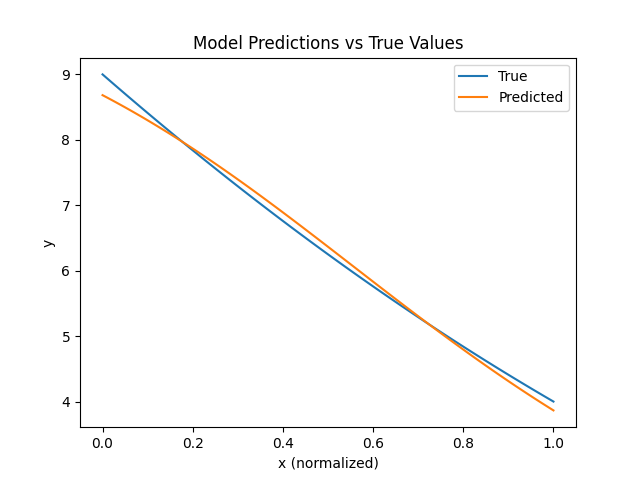
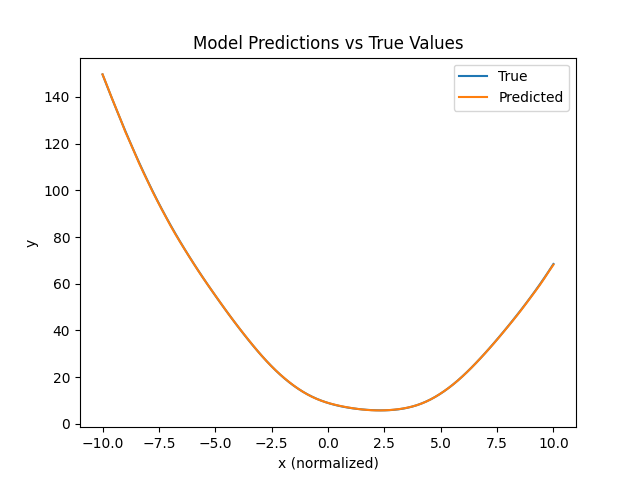
First Documented Neural Network Toy Example

diff --git a/main_neumann.py b/main_neumann.py
@@ -1,0 +1,84 @@
+import torch
+import torch.nn as nn
+import torch.optim as optim
+
+
+# Neumann
+
+
+def residual_heat_equation(x,t):
+    
+    return
+
+def boundary_condition(x,t):
+    
+    return
+
+def initial_condition(x):
+    return (3*(x**2)-8*x-16)*(e**(-0.5*x))
+
+def function_to_optimize(x): # It is important that this function recieve a tensor.
+    return (x - 3)**2
+
+
+class NeuralNetwork(nn.Module):
+    def __init__(self):
+        super(NeuralNetwork, self).__init__()
+        self.layers = nn.Sequential(
+            nn.Linear(1,20),
+            nn.Tanh(),
+            nn.Linear(20,1)
+        )
+
+    def forward(self, x):
+        return self.layers(x)
+
+model = NeuralNetwork()
+criterion = nn.MSELoss()
+optimizer = optim.SGD(model.parameters(), lr = 0.01)
+epochs = 100
+batch_size = 10
+x = torch.linspace(-10,10,100).unsqueeze(1)
+x = (x - x.min()) / (x.max() - x.min())  # Normalize to [0,1]
+y = function_to_optimize(x)
+
+for epoch in range(epochs):
+    permutation = torch.randperm(x.size(0))
+    epoch_loss = 0
+    for i in range(0, x.size(0), batch_size):
+        indices = permutation[i:i+batch_size]
+        x_batch, y_batch = x[indices], y[indices]
+        outputs = model(x_batch)
+        loss = criterion(outputs, y_batch)
+        optimizer.zero_grad()
+        loss.backward()
+        optimizer.step()
+        epoch_loss += loss.item() * x_batch.size(0)
+    if (epoch+1) % 20 == 0:
+        print(f"Epoch {epoch+1}, Avg Loss: {epoch_loss/x.size(0):.4f}")
+
+
+with torch.no_grad():
+    predictions = model(x)
+    print("Final MSE:", criterion(predictions, y).item())
+
+
+import matplotlib.pyplot as plt
+
+with torch.no_grad():
+    predictions = model(x)
+    print("Final MSE:", criterion(predictions, y).item())
+    plt.plot(x.numpy(), y.numpy(), label="True")
+    plt.plot(x.numpy(), predictions.numpy(), label="Predicted")
+    plt.legend()
+    plt.xlabel("x (normalized)")
+    plt.ylabel("y")
+    plt.title("Model Predictions vs True Values")
+    plt.savefig( "model_predictions.png")
+
+"""
+with torch.no_grad():
+    preds = torch.argmax(model(x), dim=1)
+    acc = (preds == y).float().mean()
+    print("Final accuracy")
+"""

diff --git a/main_dirichlet.py b/main_dirichlet.py
@@ -1,31 +1,49 @@
 import torch
 import torch.nn as nn
 import torch.optim as optim
+import numpy as np
+import matplotlib.pyplot as plt
+
+# Dirichlet Conditions.
 
 
-def function_to_optimize(x): #It is important that this function recieve a tensor.
-    return (x - 3)**2
+"""
+def residual_heat_equation(x,t):
+    return
+
+def boundary_condition(x,t):
+    return
+
+def initial_condition(x):
+    return np.arctan(x)*np.sin(x)
+"""
+
+
+def function_to_optimize(x):
+    return (x+3)**2-10*x + np.sin(x)
 
 
 class NeuralNetwork(nn.Module):
     def __init__(self):
         super(NeuralNetwork, self).__init__()
         self.layers = nn.Sequential(
-            nn.Linear(1,20),
+            nn.Linear(1, 40),
             nn.Tanh(),
-            nn.Linear(20,1)
+            nn.Linear(40, 80),
+            nn.Tanh(),
+            nn.Linear(80, 1)
         )
 
     def forward(self, x):
         return self.layers(x)
 
+
 model = NeuralNetwork()
 criterion = nn.MSELoss()
-optimizer = optim.SGD(model.parameters(), lr = 0.01)
-epochs = 100
+optimizer = optim.SGD(model.parameters(), lr=0.001)
+epochs = 10000
 batch_size = 10
-x = torch.linspace(-10,10,100).unsqueeze(1)
-x = (x - x.min()) / (x.max() - x.min())  # Normalize to [0,1]
+x = torch.linspace(-10, 10, 100).unsqueeze(1)
 y = function_to_optimize(x)
 
 for epoch in range(epochs):
@@ -47,24 +65,10 @@ for epoch in range(epochs):
 with torch.no_grad():
     predictions = model(x)
     print("Final MSE:", criterion(predictions, y).item())
-
-
-import matplotlib.pyplot as plt
-
-with torch.no_grad():
-    predictions = model(x)
-    print("Final MSE:", criterion(predictions, y).item())
     plt.plot(x.numpy(), y.numpy(), label="True")
     plt.plot(x.numpy(), predictions.numpy(), label="Predicted")
     plt.legend()
     plt.xlabel("x (normalized)")
     plt.ylabel("y")
     plt.title("Model Predictions vs True Values")
-    plt.savefig( "model_predictions.png")
-
-"""
-with torch.no_grad():
-    preds = torch.argmax(model(x), dim=1)
-    acc = (preds == y).float().mean()
-    print("Final accuracy")
-"""
+    plt.savefig("model_predictions.png")
